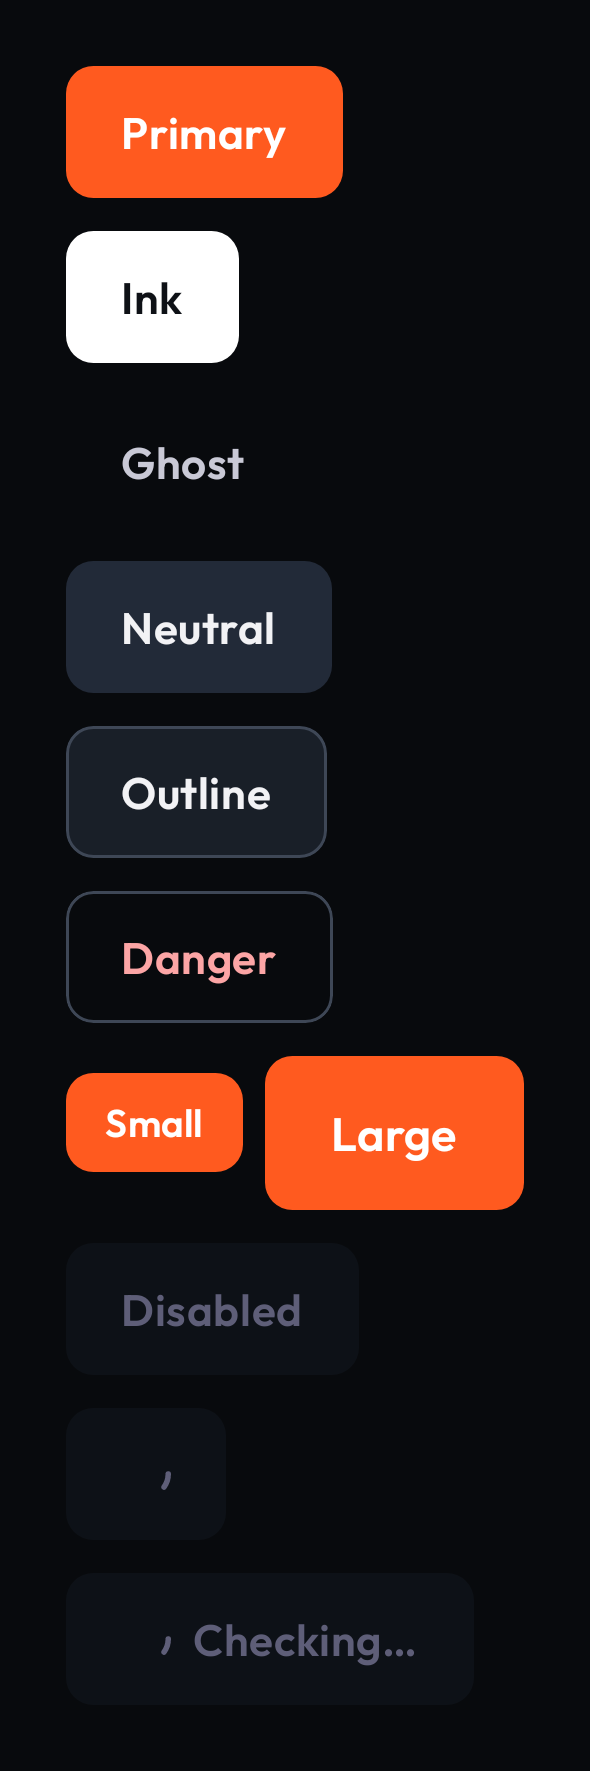
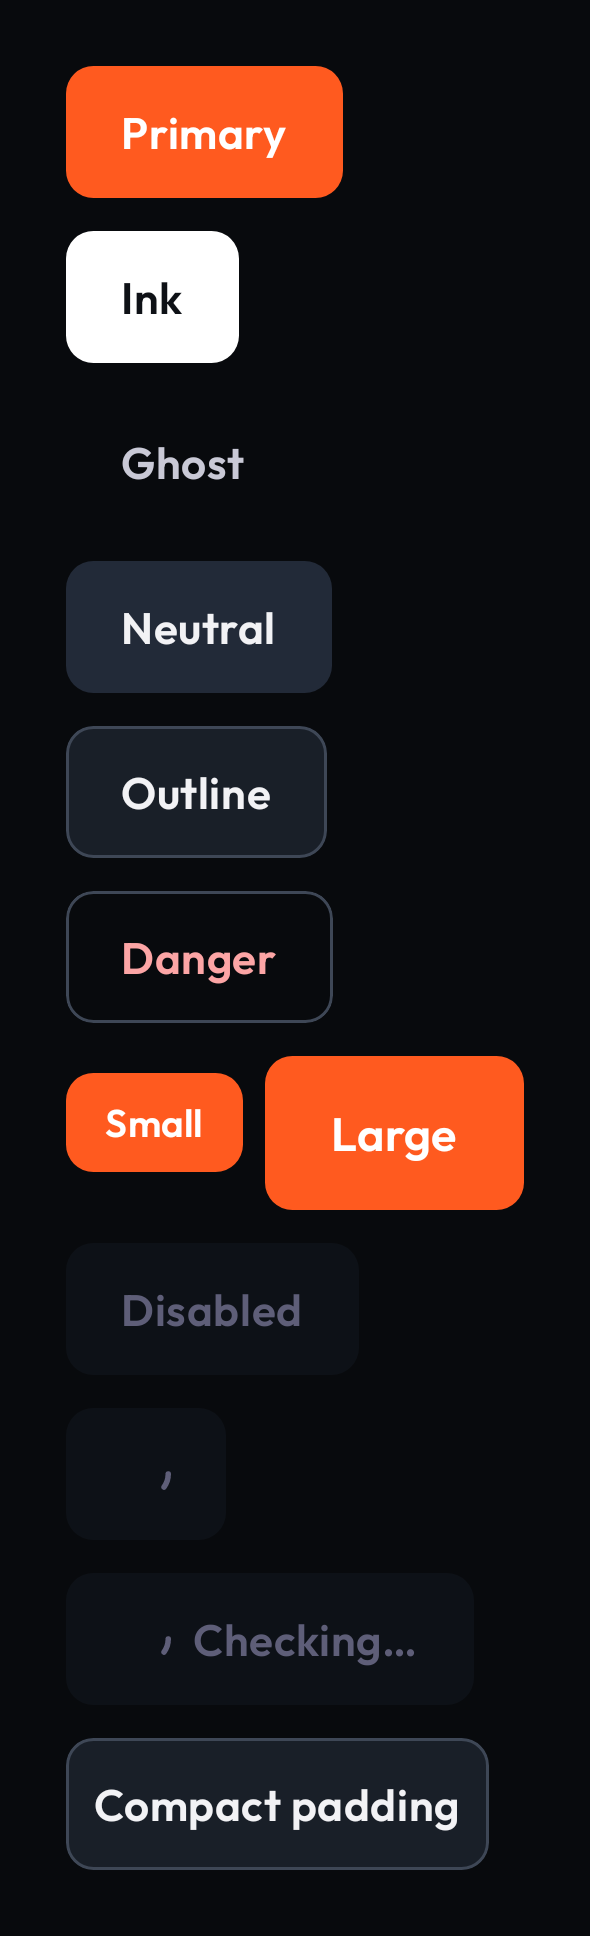
Add contentPadding and textStyle to text JengaButton

diff --git a/jenga/src/commonMain/kotlin/io/github/joelkanyi/jenga/component/button/JengaButton.kt b/jenga/src/commonMain/kotlin/io/github/joelkanyi/jenga/component/button/JengaButton.kt
@@ -282,6 +282,9 @@ public object JengaButtonDefaults {
  * @param trailingIcon optional icon after the label.
  * @param colors the color set; defaults to [JengaButtonDefaults.colors] for [variant].
  * @param loadingText optional label shown beside the spinner while [loading].
+ * @param contentPadding inner padding; defaults to the theme's [JengaButtonSizeStyle.contentPadding]
+ *   for [size], else [JengaButtonDefaults.contentPadding].
+ * @param textStyle the label style; defaults to [JengaButtonDefaults.textStyle] for [size].
  */
 @Composable
 public fun JengaButton(
@@ -296,6 +299,9 @@ public fun JengaButton(
     trailingIcon: (@Composable () -> Unit)? = null,
     colors: JengaButtonColors = JengaButtonDefaults.colors(variant),
     loadingText: String? = null,
+    contentPadding: PaddingValues = JengaTheme.components.button?.size(size)?.contentPadding
+        ?: JengaButtonDefaults.contentPadding(size),
+    textStyle: TextStyle = JengaButtonDefaults.textStyle(size),
 ) {
     JengaButton(
         onClick = onClick,
@@ -311,10 +317,11 @@ public fun JengaButton(
         },
         trailingIcon = trailingIcon.takeUnless { loading && loadingText != null },
         colors = colors,
+        contentPadding = contentPadding,
     ) {
         JengaText(
             text = if (loading && loadingText != null) loadingText else text,
-            style = JengaButtonDefaults.textStyle(size),
+            style = textStyle,
             maxLines = 1,
         )
     }
@@ -401,6 +408,37 @@ private fun JengaButtonSpinner() {
         modifier = Modifier.size(JengaButtonDefaults.SpinnerSize),
         color = LocalJengaContentColor.current,
         strokeWidth = 2.dp,
+    )
+}
+
+@Deprecated("Kept for binary compatibility", level = DeprecationLevel.HIDDEN)
+@Composable
+public fun JengaButton(
+    text: String,
+    onClick: () -> Unit,
+    modifier: Modifier = Modifier,
+    variant: JengaButtonVariant = JengaButtonVariant.Primary,
+    size: JengaButtonSize = JengaButtonSize.Medium,
+    enabled: Boolean = true,
+    loading: Boolean = false,
+    leadingIcon: (@Composable () -> Unit)? = null,
+    trailingIcon: (@Composable () -> Unit)? = null,
+    colors: JengaButtonColors = JengaButtonDefaults.colors(variant),
+    loadingText: String? = null,
+) {
+    JengaButton(
+        text = text,
+        onClick = onClick,
+        modifier = modifier,
+        variant = variant,
+        size = size,
+        enabled = enabled,
+        loading = loading,
+        leadingIcon = leadingIcon,
+        trailingIcon = trailingIcon,
+        colors = colors,
+        loadingText = loadingText,
+        textStyle = JengaButtonDefaults.textStyle(size),
     )
 }
 

diff --git a/jenga/src/androidUnitTest/kotlin/io/github/joelkanyi/jenga/component/button/JengaButtonLoadingTest.kt b/jenga/src/androidUnitTest/kotlin/io/github/joelkanyi/jenga/component/button/JengaButtonLoadingTest.kt
@@ -1,12 +1,20 @@
 package io.github.joelkanyi.jenga.component.button
 
+import androidx.compose.foundation.layout.PaddingValues
 import androidx.compose.ui.Modifier
 import androidx.compose.ui.platform.testTag
+import androidx.compose.ui.semantics.SemanticsActions
 import androidx.compose.ui.test.assertIsNotEnabled
+import androidx.compose.ui.test.getUnclippedBoundsInRoot
 import androidx.compose.ui.test.junit4.createComposeRule
 import androidx.compose.ui.test.onNodeWithTag
 import androidx.compose.ui.test.onNodeWithText
 import androidx.compose.ui.test.performClick
+import androidx.compose.ui.test.performSemanticsAction
+import androidx.compose.ui.text.TextLayoutResult
+import androidx.compose.ui.unit.dp
+import androidx.compose.ui.unit.sp
+import androidx.compose.ui.unit.width
 import io.github.joelkanyi.jenga.component.badge.JengaBadgeTone
 import io.github.joelkanyi.jenga.component.status.JengaStatusPill
 import io.github.joelkanyi.jenga.component.text.JengaText
@@ -87,5 +95,41 @@ class JengaButtonLoadingTest {
             }
         }
         compose.onNodeWithText("icon").assertDoesNotExist()
+    }
+
+    @Test
+    fun contentPaddingAppliesToTextOverload() {
+        compose.setContent {
+            JengaTheme {
+                JengaButton(text = "Request inventory", onClick = {}, modifier = Modifier.testTag("default"))
+                JengaButton(
+                    text = "Request inventory",
+                    onClick = {},
+                    modifier = Modifier.testTag("compact"),
+                    contentPadding = PaddingValues(horizontal = 10.dp, vertical = 12.dp),
+                )
+            }
+        }
+        val default = compose.onNodeWithTag("default").getUnclippedBoundsInRoot().width
+        val compact = compose.onNodeWithTag("compact").getUnclippedBoundsInRoot().width
+        assertEquals(20f, (default - compact).value, 0.5f)
+    }
+
+    @Test
+    fun textStyleAppliesToLabel() {
+        compose.setContent {
+            JengaTheme {
+                JengaButton(
+                    text = "Request inventory",
+                    onClick = {},
+                    textStyle = JengaButtonDefaults.textStyle(JengaButtonSize.Medium).copy(fontSize = 13.5.sp),
+                )
+            }
+        }
+        val layouts = mutableListOf<TextLayoutResult>()
+        compose.onNodeWithText("Request inventory").performSemanticsAction(SemanticsActions.GetTextLayoutResult) {
+            it(layouts)
+        }
+        assertEquals(13.5.sp, layouts.single().layoutInput.style.fontSize)
     }
 }

diff --git a/jenga/src/androidMain/kotlin/io/github/joelkanyi/jenga/component/button/JengaButtonPreviews.kt b/jenga/src/androidMain/kotlin/io/github/joelkanyi/jenga/component/button/JengaButtonPreviews.kt
@@ -3,12 +3,14 @@ package io.github.joelkanyi.jenga.component.button
 import androidx.compose.foundation.background
 import androidx.compose.foundation.layout.Arrangement
 import androidx.compose.foundation.layout.Column
+import androidx.compose.foundation.layout.PaddingValues
 import androidx.compose.foundation.layout.Row
 import androidx.compose.foundation.layout.padding
 import androidx.compose.foundation.layout.size
 import androidx.compose.runtime.Composable
 import androidx.compose.ui.Modifier
 import androidx.compose.ui.tooling.preview.Preview
+import androidx.compose.ui.unit.dp
 import io.github.joelkanyi.jenga.core.preview.JengaBlockPreviews
 import io.github.joelkanyi.jenga.core.preview.RtlPreview
 import io.github.joelkanyi.jenga.theme.JengaTheme
@@ -50,5 +52,11 @@ private fun ButtonShowcase() {
         JengaButton(text = "Disabled", onClick = {}, enabled = false)
         JengaButton(text = "Loading", onClick = {}, loading = true)
         JengaButton(text = "Check ID", onClick = {}, loading = true, loadingText = "Checking…")
+        JengaButton(
+            text = "Compact padding",
+            onClick = {},
+            variant = JengaButtonVariant.Outline,
+            contentPadding = PaddingValues(horizontal = 10.dp, vertical = 12.dp),
+        )
     }
 }

diff --git a/CHANGELOG.md b/CHANGELOG.md
@@ -1,5 +1,9 @@
 # Change Log
 
+## Unreleased
+
+ * New: `JengaButton` (text overload) takes `contentPadding` and `textStyle`.
+
 ## Version 0.8.1
 
 _2026-10-14_
